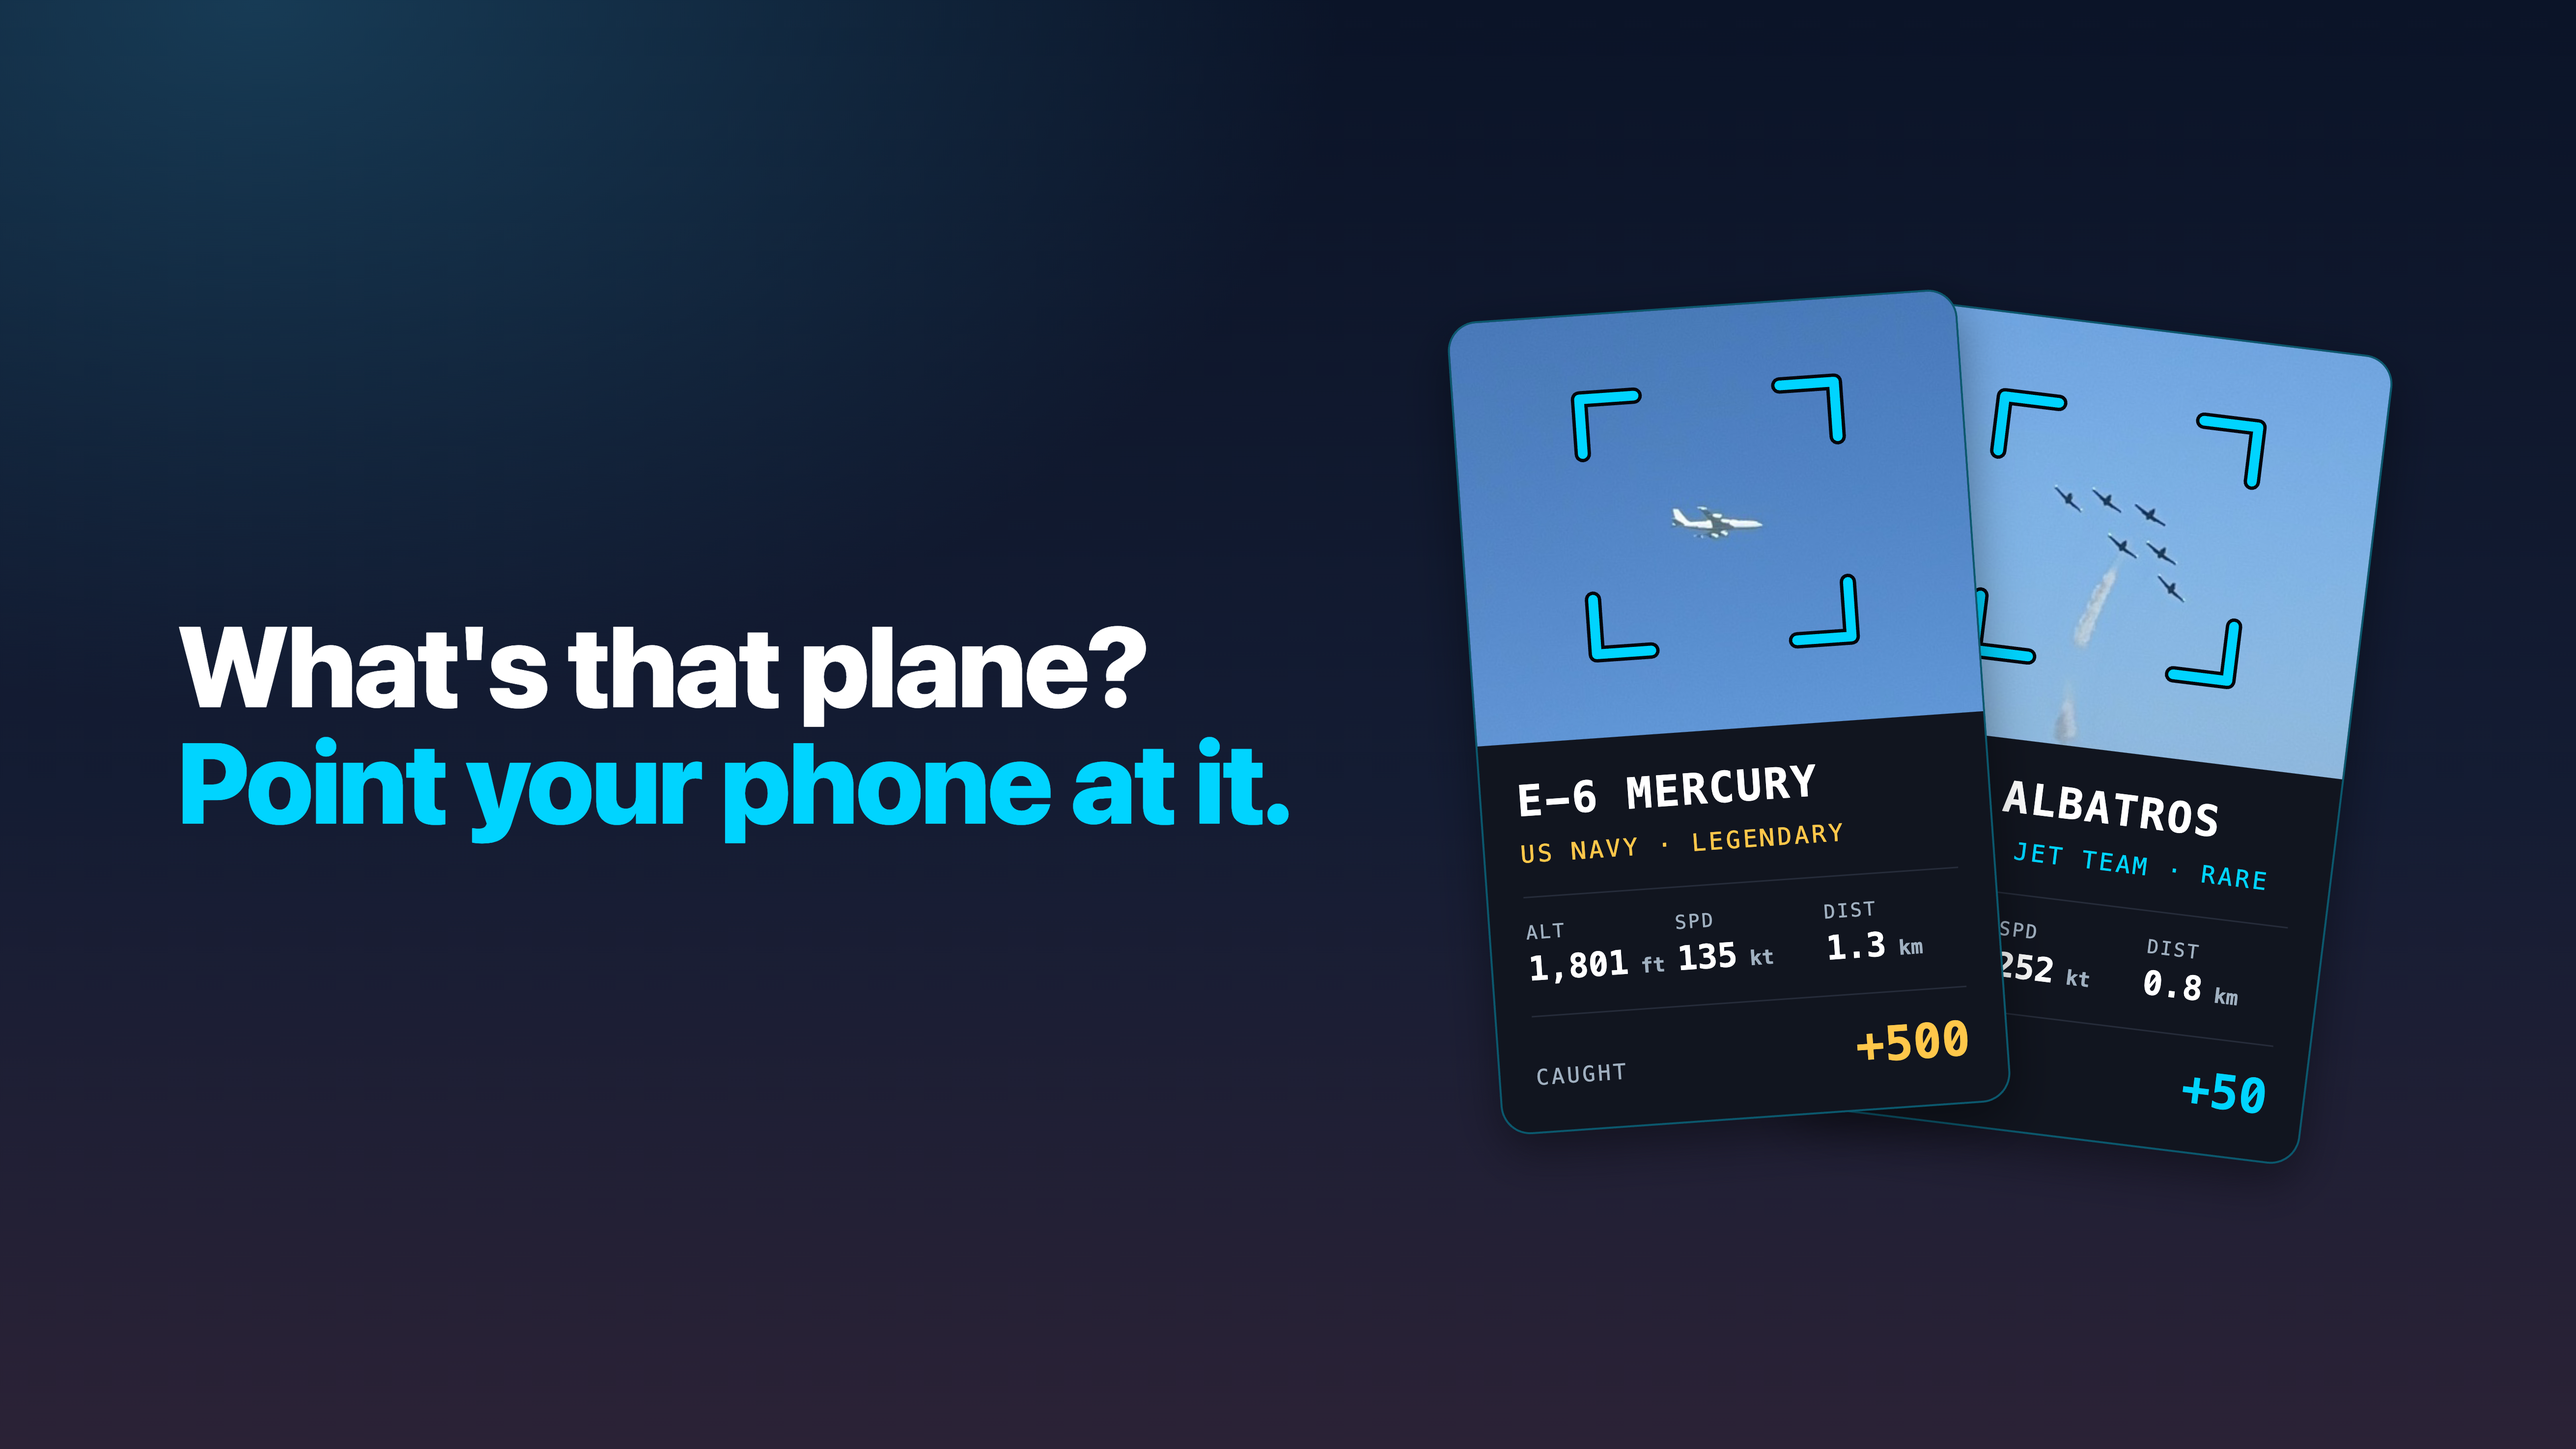
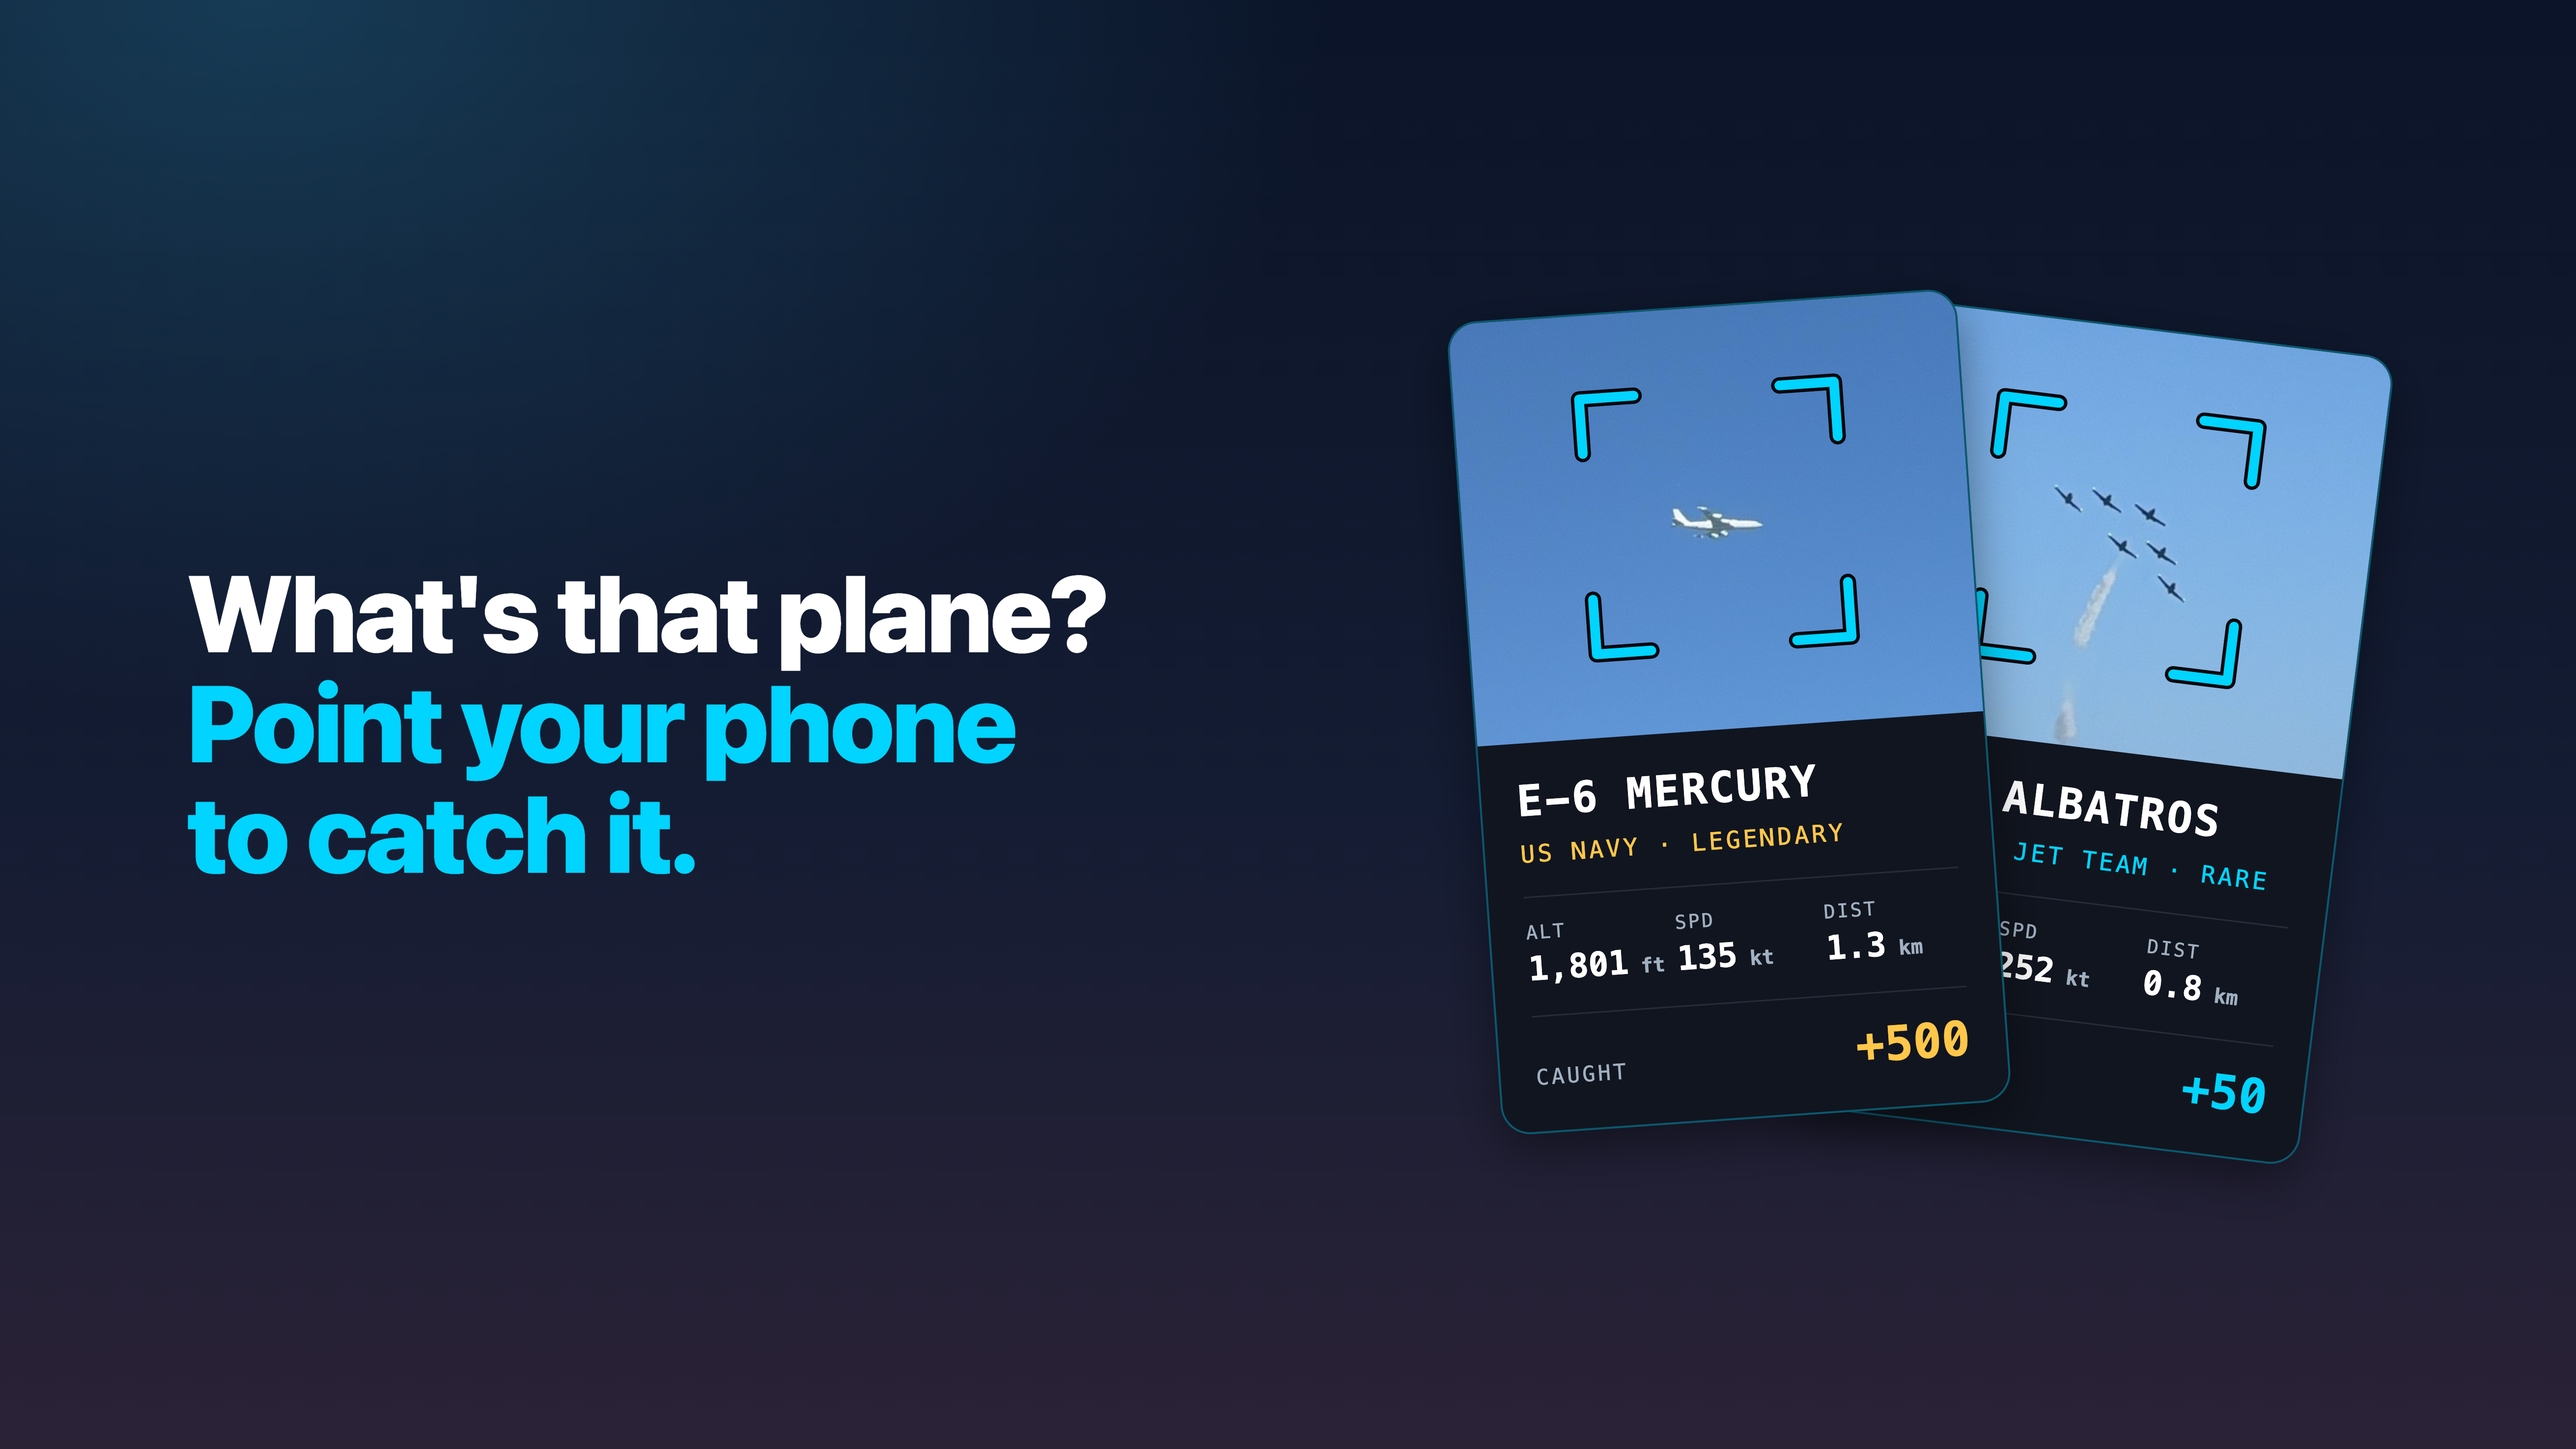
1.2.5 creative: header gets its own image, new search copy
- Search results and universal: "What's that plane? Point your phone to
  catch it." (Noah's copy) over three lines, with the E-6 and L-39 cards.
- Header: a different image, "Catch the planes flying overhead." beside
  the C-27J over the Golden Gate (real catch photo, its baked-in bracket
  kept whole), inside the 16:9 crop iPhone shows.

Changed region(s): [[0.0622, 0.3742, 0.4973, 0.6237]]

diff --git a/marketing/releases/v1.2.5/source/creative.html b/marketing/releases/v1.2.5/source/creative.html
@@ -1,7 +1,8 @@
 <!doctype html>
 <meta charset="utf-8">
 <title>Tailspot creative 1.2.5</title>
-<!-- Header (21:9), search results (3:2) and universal (16:9) creative for the 1.2.5 listing.
+<!-- Header (21:9): the C-27J over the Golden Gate (real catch photo, its bracket baked in by the app). Search (3:2) and universal (16:9): the E-6 and L-39 cards.
+     Header (21:9), search results (3:2) and universal (16:9) creative for the 1.2.5 listing.
      Same cards, gradient and headline as slides 1-2 of deck.html. Open creative.html#header|#search|#universal
      and screenshot at half size with --force-device-scale-factor=2 (see the folder README). -->
 <style>
@@ -39,6 +40,10 @@ html,body{width:auto;height:auto}
 .cw .idcard{position:relative;top:0;left:0;right:0;margin:0 7cqw}
 .hd{position:absolute;font-weight:800;letter-spacing:-.02em;line-height:1.02}
 .hd em{font-style:normal;color:var(--cyan);display:block}
+.pan{position:absolute;border-radius:28px;overflow:hidden;border:2px solid rgba(0,212,255,.35);box-shadow:0 18px 48px rgba(0,0,0,.45)}
+.pan img{width:100%;height:100%;object-fit:cover;display:block}
+.pan .tag{position:absolute;left:20px;bottom:20px;font-family:var(--sfmono);font-weight:700;font-size:17px;letter-spacing:.1em;padding:9px 14px;border-radius:10px;background:rgba(8,12,20,.78);color:#fff}
+.pan .tag b{color:#AB78EA;font-weight:700}
 </style>
 <div id="o"></div>
 <script>
@@ -58,14 +63,15 @@ const L39={img:'l39.png',ty:'L-39 ALBATROS',op:'PATRIOTS JET TEAM · RARE', tint
 // Layouts in CSS px at half the output size. Header: content stays inside the
 // 16:9 centre crop App Store Connect shows on iPhone (x 228..1692 of 1920).
 const L={
- header:{w:1920,h:823,hd:{x:262,y:348,size:62},cards:[{c:L39,x:1250,y:128,w:380,rot:7},{c:E6,x:990,y:116,w:380,rot:-4}]},
- search:{w:1920,h:1280,hd:{x:120,y:548,size:88},cards:[{c:L39,x:1400,y:290,w:450,rot:7},{c:E6,x:1100,y:272,w:450,rot:-4}]},
- universal:{w:2622,h:1475,hd:{x:180,y:620,size:116},cards:[{c:L39,x:1870,y:330,w:520,rot:7},{c:E6,x:1500,y:310,w:520,rot:-4}]},
+ header:{w:1920,h:823,hd:{x:262,y:320,size:66,t:['Catch the planes','flying overhead.']},pan:{x:820,y:96,w:850,h:631,pos:'50% 61%'},cards:[]},
+ search:{w:1920,h:1280,hd:{x:130,y:511,size:84},cards:[{c:L39,x:1400,y:290,w:450,rot:7},{c:E6,x:1100,y:272,w:450,rot:-4}]},
+ universal:{w:2622,h:1475,hd:{x:190,y:569,size:110},cards:[{c:L39,x:1870,y:330,w:520,rot:7},{c:E6,x:1500,y:310,w:520,rot:-4}]},
 };
 const k=location.hash.slice(1)||'search', l=L[k];
 document.body.style.width=l.w+'px';
 document.getElementById('o').innerHTML=`<div class="stage" style="width:${l.w}px;height:${l.h}px">
- <div class="hd" style="left:${l.hd.x}px;top:${l.hd.y}px;font-size:${l.hd.size}px">What's that plane?<em>Point your phone at it.</em></div>
+ <div class="hd" style="left:${l.hd.x}px;top:${l.hd.y}px;font-size:${l.hd.size}px">${(l.hd.t||['What\'s that plane?'])[0]}<em>${(l.hd.t||['','Point your phone<br>to catch it.'])[1]}</em></div>
+ ${l.pan?`<div class="pan" style="left:${l.pan.x}px;top:${l.pan.y}px;width:${l.pan.w}px;height:${l.pan.h}px"><img src="ph/c27j_gg.jpg" alt="" style="object-position:${l.pan.pos}"><div class="tag">C-27J SPARTAN · <b>EPIC</b></div></div>`:''}
  ${l.cards.map(q=>`<div class="cw" style="left:${q.x}px;top:${q.y}px;width:${q.w/0.86}px;margin-left:${-q.w*0.07/0.86}px;transform:rotate(${q.rot}deg)">${card(q.c)}</div>`).join('')}
 </div>`;
 </script>

diff --git a/marketing/releases/v1.2.5/README.md b/marketing/releases/v1.2.5/README.md
@@ -20,7 +20,7 @@
 - `source/deck.html`: the renderer for all seven slides
 - `source/creative.html`: the renderer for the three creative assets (`#header`, `#search`, `#universal`)
 - `source/e6.png`, `source/l39.png`: photo crops for slides 1–2
-- `source/ph/`: `a321_guess.jpg`, slide 3's photo (the area inside the bracket baked into
+- `source/ph/`: `c27j_gg.jpg` (the header photo, a copy of `catch-photos/fw_c27j_golden_gate.jpg`), `a321_guess.jpg`, slide 3's photo (the area inside the bracket baked into
   `catch-photos/a321_with_route_first.jpg`, crop 256x144+294+212, scaled to 941 × 529),
   and the app icon for slide 7's push
 
@@ -79,12 +79,22 @@ headlines and layouts.
 
 ## Creative assets
 
-Same look as slides 1–2: the dusk gradient, slide 1's headline ("What's that
-plane? Point your phone at it."), and the E-6 and L-39 catch cards fanned on the
-right, with no phone. They replace the 1.2.2 airshow-trio header and the
-phone-plus-E-6 search image, which used the old split-flap cards. The header
-keeps everything inside the 16:9 centre crop App Store Connect shows on iPhone
-(about 2926 of 3840 px); check the Preview tool there after upload.
+Same look as the slides (dusk gradient, the slide headline type, no phone), and
+the two slots show different images:
+
+- **Search results (and universal):** "What's that plane? Point your phone to
+  catch it." with the E-6 and L-39 catch cards fanned on the right. This is the
+  image a searcher sees, so it carries slide 1's hook.
+- **Header:** "Catch the planes flying overhead." (the 1.2.2 header line) beside
+  the C-27J over the Golden Gate (`catch-photos/fw_c27j_golden_gate.jpg`, copied
+  to `source/ph/c27j_gg.jpg`), cropped wide around the bracket the app baked in,
+  with a "C-27J SPARTAN · EPIC" tag. A few strangers in the crowd are
+  recognisable at full size, as on the 1.2.2 slide 1.
+
+They replace the 1.2.2 airshow-trio header and the phone-plus-E-6 search image,
+which used the old split-flap cards. The header keeps everything inside the 16:9
+centre crop App Store Connect shows on iPhone (about 2926 of 3840 px); check the
+Preview tool there after upload.
 
 Render at half size with a device scale factor of 2:
 

diff --git a/marketing/releases/README.md b/marketing/releases/README.md
@@ -23,4 +23,4 @@ belongs to the next version.
 | [v1.1.1](v1.1.1/) | 2026-09-13 | shipped (live 2026-09-14, build 94) | Slides 2–6 re-captured for the new card frames, units and sets. |
 | [v1.2.0](v1.2.0/) | 2026-10-02 | packaged for 1.2.0 (live 2026-10-03); upload not recorded | Slide 7 (Challenges); slide 2 fill and slide 3 crop fixes. Still the live set for 1.2.1. |
 | [v1.2.2](v1.2.2/) | 2026-10-12 | shipped (live 2026-10-12, build 107) | Fleet Week slides 1–2 (C-27J over the Golden Gate, Legendary E-6); first header and search results assets. |
-| [v1.2.5](v1.2.5/) | 2026-11-11 | approved, not uploaded yet | New slides 1–2 for tracker searchers (E-6 "What's that plane?", L-39 "Every catch goes into your Hangar"); slides 3–7 redrawn as illustrations close to the app (guess round, Sets tab, trophy unlock, podium, challenge push); one look, no device frames. **1206 × 2622**: App Store Connect rejected 1284 × 2778 for this slot. New header and search results images in the same look. Rendered from `source/deck.html` and `source/creative.html`, not the deck editor. |
+| [v1.2.5](v1.2.5/) | 2026-11-11 | approved, not uploaded yet | New slides 1–2 for tracker searchers (E-6 "What's that plane?", L-39 "Every catch goes into your Hangar"); slides 3–7 redrawn as illustrations close to the app (guess round, Sets tab, trophy unlock, podium, challenge push); one look, no device frames. **1206 × 2622**: App Store Connect rejected 1284 × 2778 for this slot. New header (C-27J over the Golden Gate) and search results (E-6 and L-39 cards) images in the same look. Rendered from `source/deck.html` and `source/creative.html`, not the deck editor. |
